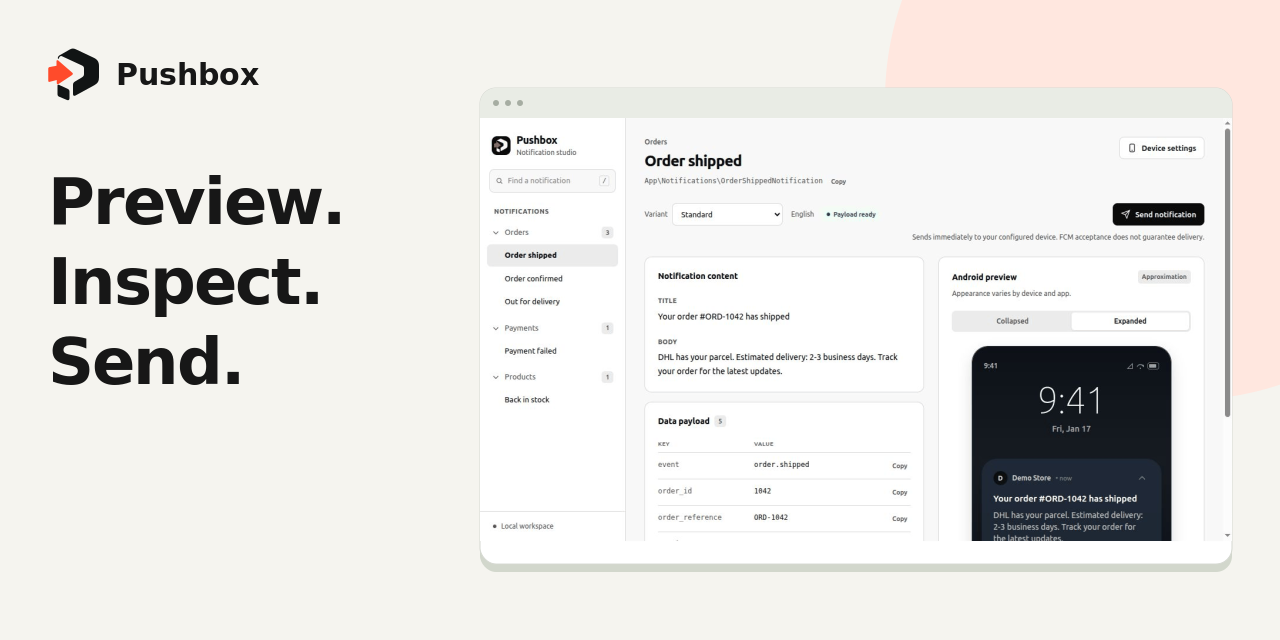
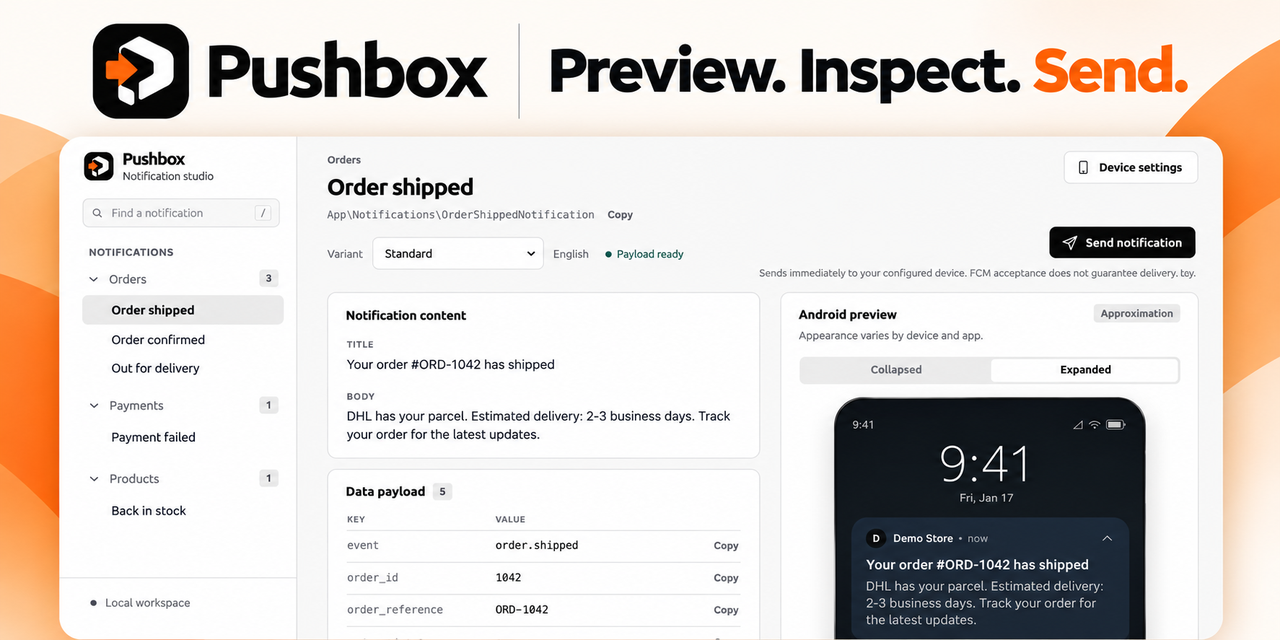
Use approved Pushbox launch artwork

diff --git a/docs/RELEASING.md b/docs/RELEASING.md
@@ -8,7 +8,7 @@ This branch changes the support policy and send/access behavior. Release it as a
 - Review dependency updates. Automatic dependency merges and bot writes to main have been removed.
 - Run the checks listed in README on the exact proposed release commit. CI builds the supported PHP/Laravel combinations, including real FCM integration with a mocked provider and a lane where FCM is absent.
 - Build both a Git archive and a `composer archive`. Confirm they contain `config/`, `routes/`, `src/`, `stubs/`, Blade views, the favicon, bundled CSS, and JavaScript. They should omit the development lock file, tests, build tools, local examples, and launch media. A user does not run npm to install the package.
-- Refresh `docs/images/preview.png` and `workflow.gif` when the workspace changes. The README uses commit-pinned hosted images so package downloads can omit launch media and deleting a feature branch does not break them. Keep `social-preview.svg` and its 1280 × 640 PNG in sync; upload the PNG under the repository’s General settings → Social preview.
+- Refresh `docs/images/preview.png` and `workflow.gif` when the workspace changes. The README uses commit-pinned hosted images so package downloads can omit launch media and deleting a feature branch does not break them. Use the approved artwork for `social-preview.png`, sized to 1280 × 640 and under 1 MB. Upload it under the repository’s General settings → Social preview.
 
 ## Fresh Laravel application
 
